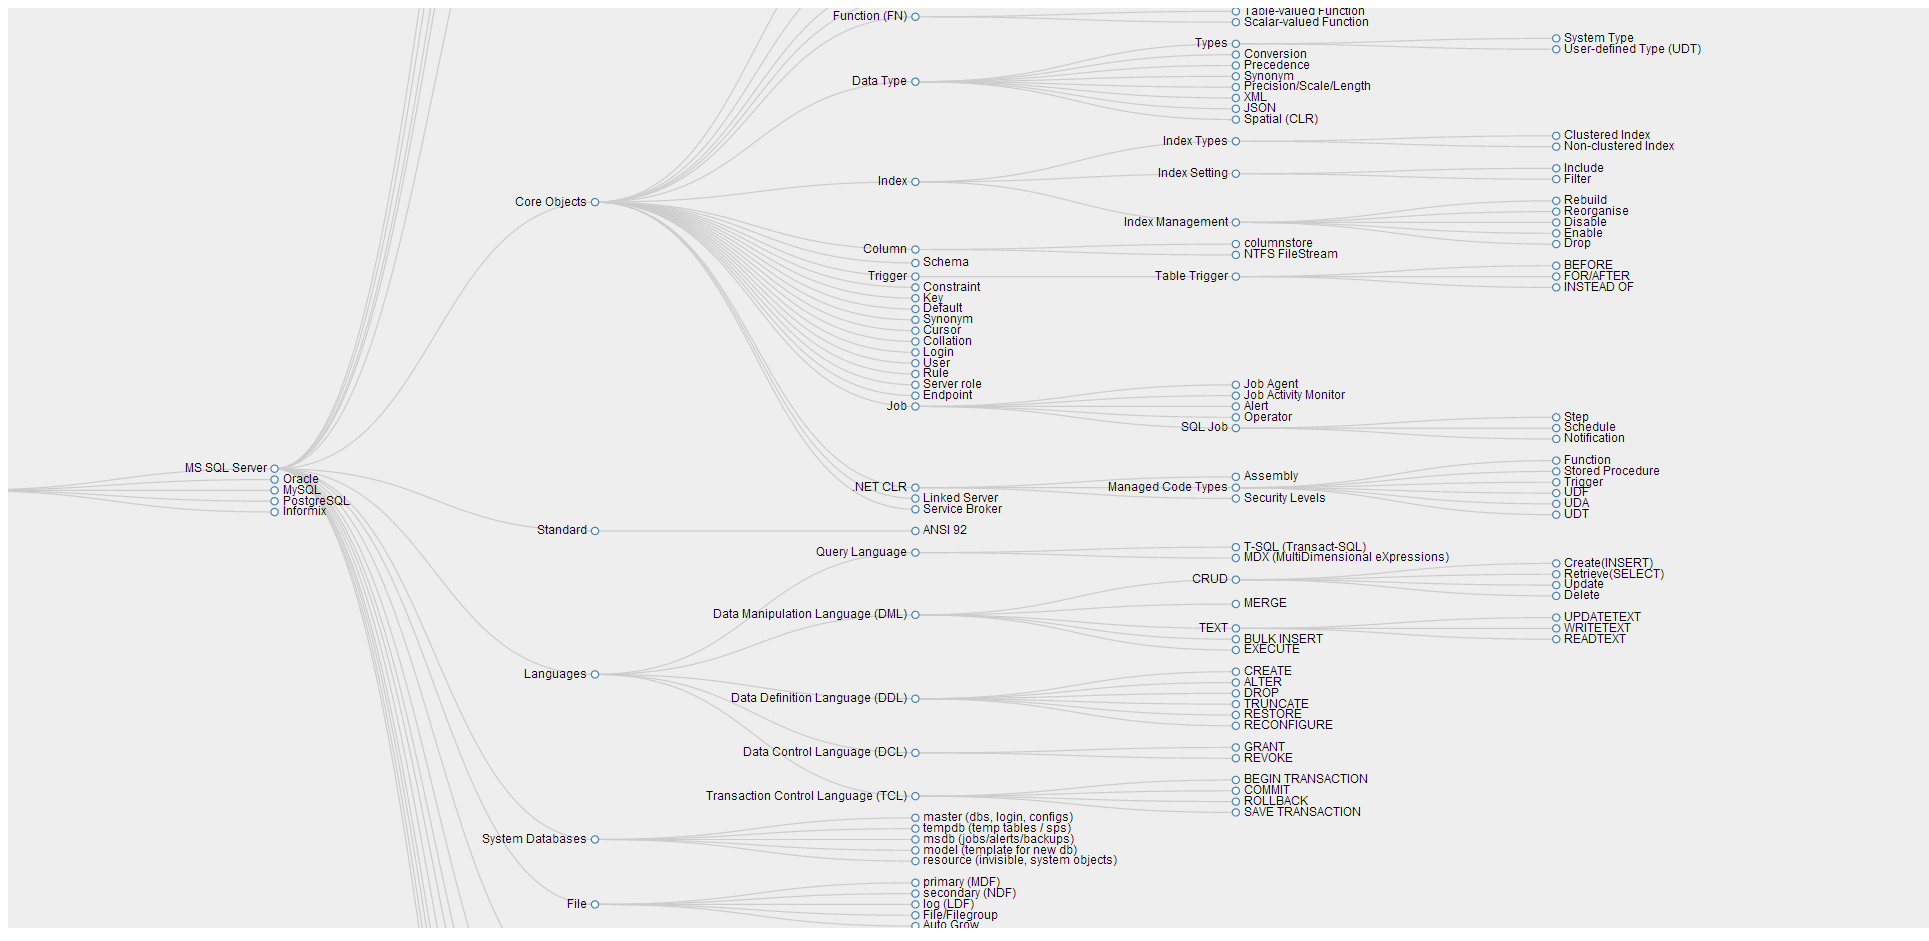
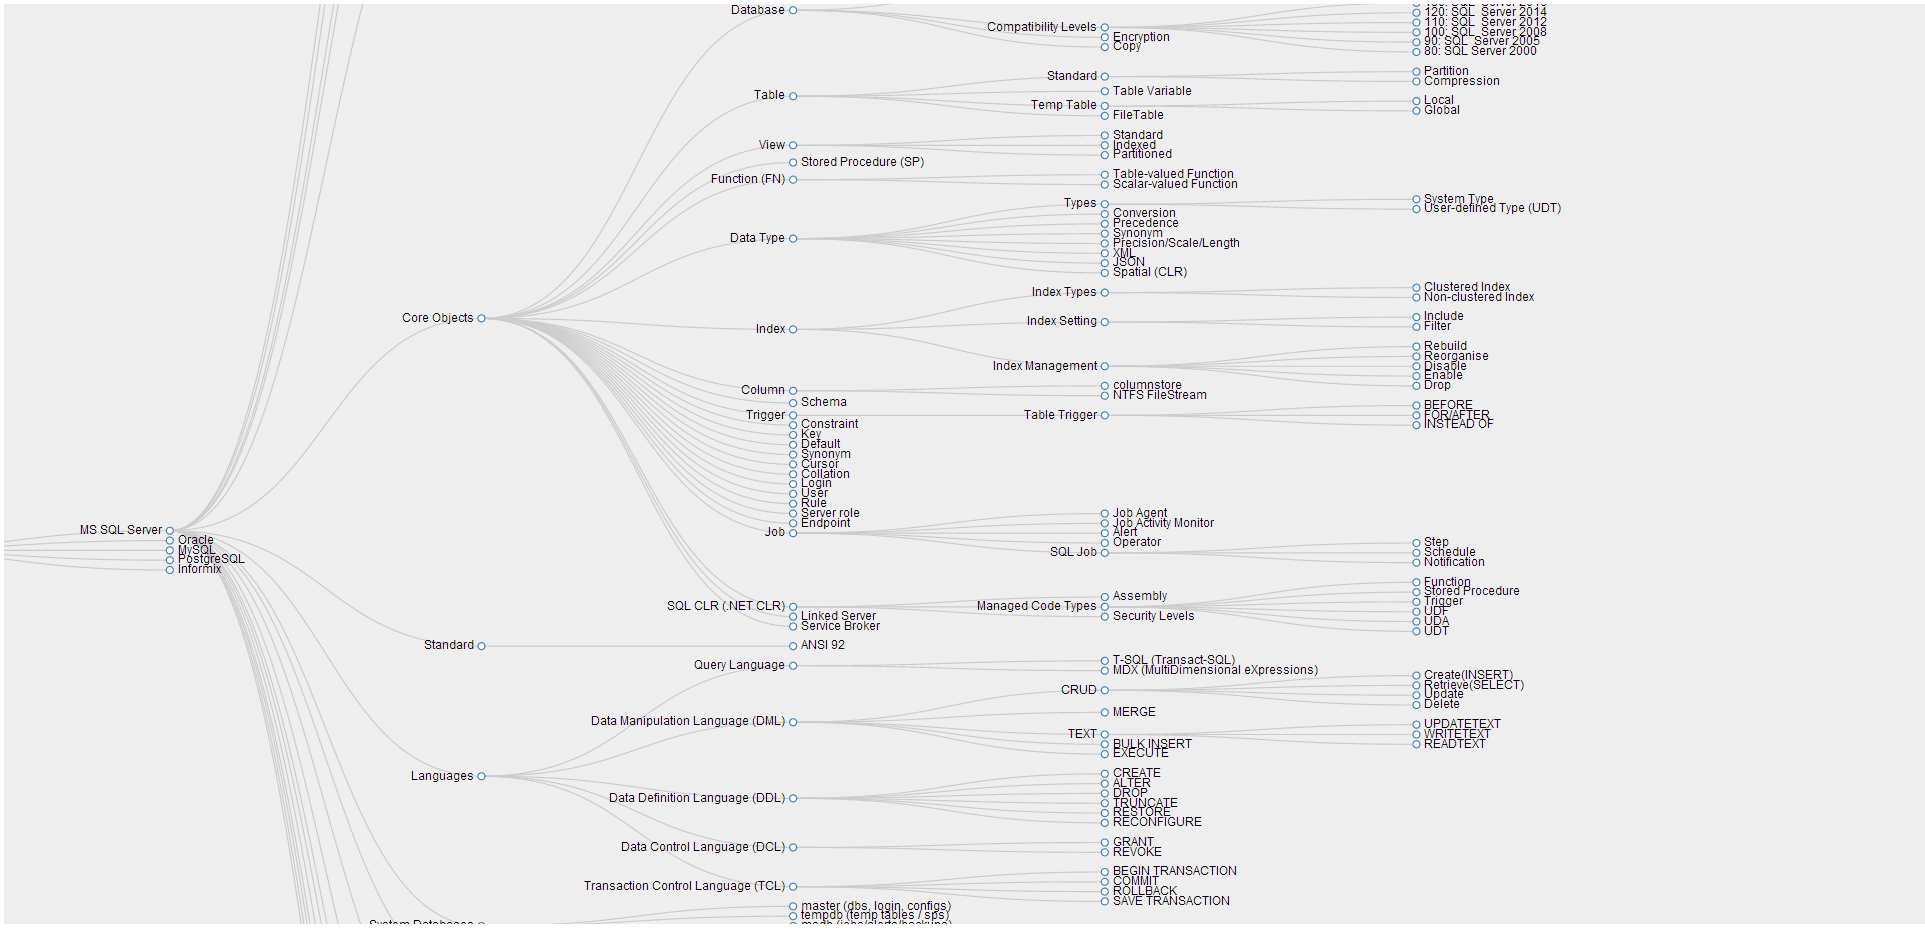
v1.3
added more details about log file, transaction types,  database/table,
mirroring

diff --git a/README.md b/README.md
@@ -38,7 +38,14 @@ https://rawgit.com/unruledboy/DatabaseStack/master/ux/DatabaseStack.htm
 			- Extents
 			- Pages
 			- Log File
-				- Write Ahead
+				- Write Ahead Log (WAL)
+					- Recovery
+					- Full
+				- Bulk-logged
+				- Dirty Pages
+				- Lazy Writer
+				- Checkpoint
+				- Log Sequence Number (LSN)
 		- Relational Engine
 			- Query Processing
 				- Parser
@@ -51,11 +58,13 @@ https://rawgit.com/unruledboy/DatabaseStack/master/ux/DatabaseStack.htm
 			- Buffer Management
 			- Distributed Query Processing
 		- Communication
+			- SQL Server Network Interface (SNI)
 			- Tabular Data Stream (TDS)
 			- Protocols
 				- TCP/IP
 				- Named pipes
 				- Shared memory
+				- Virtual Interface Adapter (VIA)
 				- Web Services
 		- Core Concepts
 			- Instance
@@ -67,10 +76,15 @@ https://rawgit.com/unruledboy/DatabaseStack/master/ux/DatabaseStack.htm
 				- Dynamic
 			- Transaction
 				- ACID
-					- Atomic
-					- Consistent
-					- Isolated
-					- Durable
+					- Atomicity
+					- Consistency
+					- Isolation
+					- Durability
+				- Types
+					- Implicit
+						- single UPDATE/DELETE
+					- Explicit
+						- BEGIN/COMMIT/ROLLBACK
 				- Checkpoint
 				- Isolation Levels
 					- Read uncommitted
@@ -104,7 +118,16 @@ https://rawgit.com/unruledboy/DatabaseStack/master/ux/DatabaseStack.htm
 					- 100: SQL  Server 2008
 					- 90: SQL  Server 2005
 					- 80: SQL Server 2000
+				- Encryption
+				- Copy
 			- Table
+				- Standard
+					- Partition
+					- Compression
+				- Table Variable
+				- Temp Table
+					- Local
+					- Global
 				- FileTable
 			- View
 				- Standard
@@ -145,8 +168,8 @@ https://rawgit.com/unruledboy/DatabaseStack/master/ux/DatabaseStack.htm
 			- Trigger
 				- Table Trigger
 					- BEFORE
-					- AFTER
-					- INSTEADOF
+					- FOR/AFTER
+					- INSTEAD OF
 			- Constraint
 			- Key
 			- Default
@@ -167,7 +190,7 @@ https://rawgit.com/unruledboy/DatabaseStack/master/ux/DatabaseStack.htm
 					- Step
 					- Schedule
 					- Notification
-			- .NET CLR
+			- .SQL CLR (.NET CLR)
 				- Assembly
 				- Managed Code Types
 					- Function
@@ -240,6 +263,7 @@ https://rawgit.com/unruledboy/DatabaseStack/master/ux/DatabaseStack.htm
 				- Execution io/cpu/perf
 			- Full Text Search (FTS)
 				- Integrated Full Text Search (iFTS)
+			- Trace flags
 		- Replication
 			- Log Shipping
 			- Publish/Subscribe
@@ -247,6 +271,10 @@ https://rawgit.com/unruledboy/DatabaseStack/master/ux/DatabaseStack.htm
 				- Merge
 				- Snapshot 
 			- Mirroring
+				- Core
+					- Principal
+					- Witness
+				- Database Mirroring Monitor
 			- AlwaysOn
 			- Clustering
 				- Core  
@@ -283,7 +311,7 @@ https://rawgit.com/unruledboy/DatabaseStack/master/ux/DatabaseStack.htm
 			- Import/Export
 			- Shrink
 			- DBCC
-			- Bulk Load
+			- Bulk Copy (bcp command line)
 			- Resource governor
 			- Facets
 		- Business Intelligence (BI)
